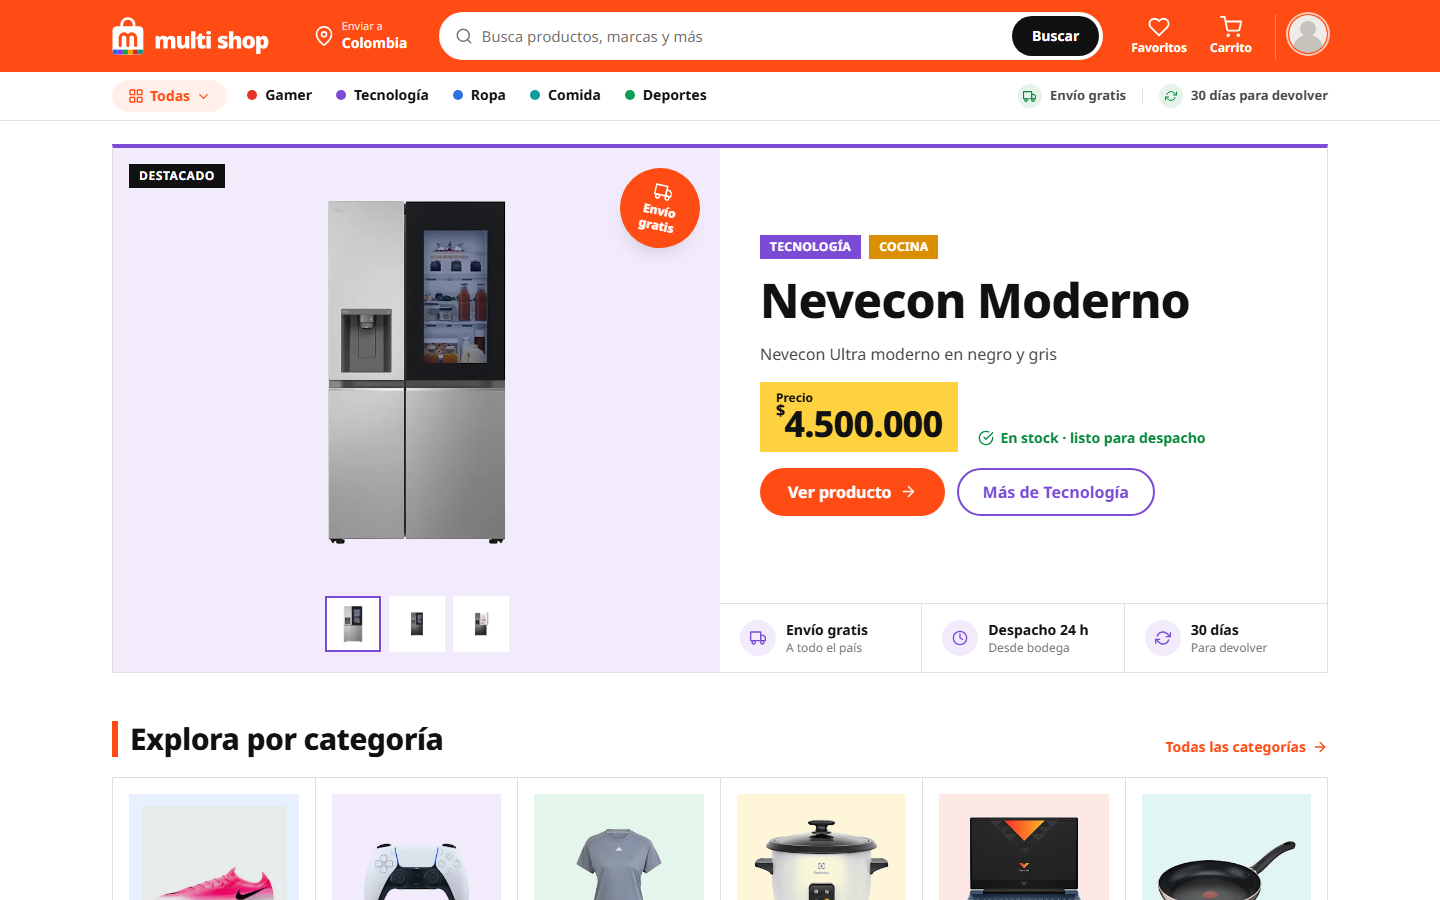
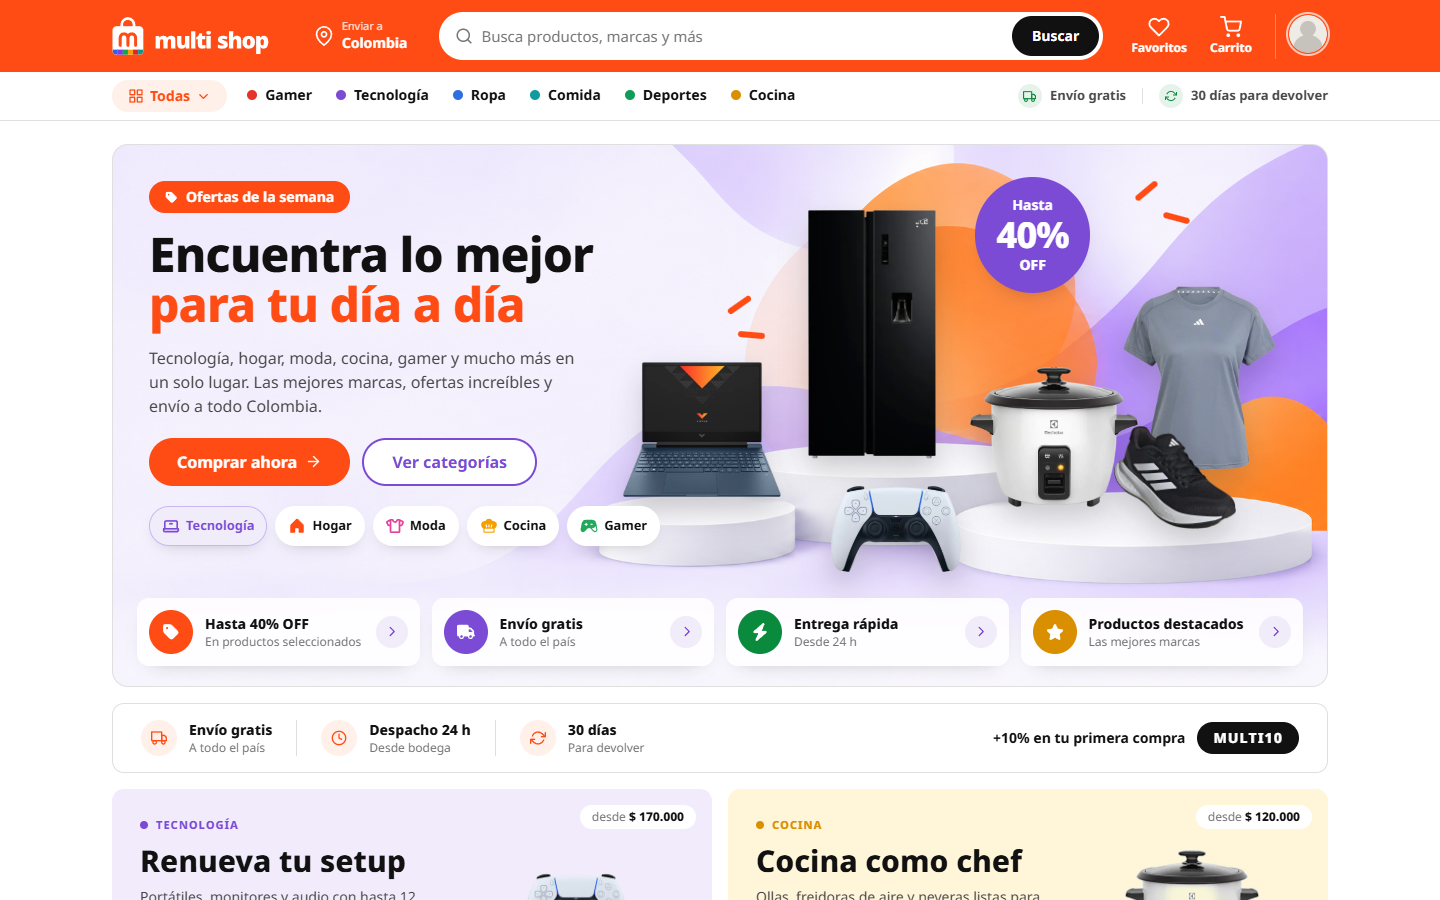
docs: readme actualizado con catalogo, visor y capturas nuevas

diff --git a/README.md b/README.md
@@ -14,19 +14,23 @@ Para quien quiere comprar rápido y con confianza, sin perderse entre menús:
 
 | Quiere… | La tienda le da… |
 |---|---|
-| Encontrar algo rápido | Categorías siempre a la mano en la barra, cada una con su color, y un buscador grande |
+| Encontrar algo rápido | Categorías siempre a la mano en la barra, cada una con su color, un buscador grande y un catálogo con filtros |
 | Saber cuánto cuesta sin buscar | Todos los precios en una **etiqueta amarilla** que se ve de lejos |
+| Ver bien lo que compra | Fotos grandes y un visor a pantalla completa con zoom |
 | Comprar sin miedo | Envío gratis, 30 días para devolver y pago seguro con Stripe, repetidos donde hace falta |
 | No crear una cuenta | Puede comprar como invitado |
 | Volver después | Una lista de deseos y sus datos guardados para la próxima compra |
 
 ## El recorrido de compra
 
-1. **Descubre.** El inicio abre con el producto destacado y sigue con las categorías. Cada categoría tiene su propio carrusel, y entre ellos aparecen secciones que rompen la rutina: un producto estrella, promociones y cómo funciona la compra.
-2. **Mira de cerca.** El detalle del producto muestra la galería de fotos, el precio, el stock, el envío y la garantía, todo en una sola vista.
-3. **Guarda.** El carrito se abre de lado sin sacarte de la página, y sugiere productos para completar el pedido.
-4. **Paga en cuatro pasos.** Carrito → tus datos → entrega → pago. El resumen del pedido acompaña cada paso.
-5. **Listo.** Una página de confirmación con el número de pedido y lo que sigue. Si el pago se cancela, el carrito queda guardado para intentar de nuevo.
+1. **Descubre.** El inicio abre con un banner de ofertas: los productos aparecen sobre plataformas, cada uno lleva a su página y debajo hay accesos rápidos a promociones, envío y destacados. Luego vienen las categorías, los precios bajos y un carrusel por cada categoría, con secciones intermedias que rompen la rutina: un producto estrella, promociones y cómo funciona la compra.
+2. **Busca.** El buscador y los enlaces de categoría llevan al **catálogo**: filtros por categoría y precio, cuatro formas de ordenar y 12 productos por página. Los filtros quedan en la dirección, así que una búsqueda se puede compartir o guardar. En el celular los filtros salen en un cajón lateral.
+3. **Mira de cerca.** El detalle del producto muestra la galería de fotos, el precio, el stock, el envío y la garantía en una sola vista. Al tocar la foto se abre el **visor**: foto grande, flechas, miniaturas, doble clic para ampliar y teclado (← → y Esc).
+4. **Guarda.** Al agregar o quitar algo del carrito o de favoritos aparece un aviso con la foto del producto y un botón **Deshacer**. El carrito se abre de lado sin sacarte de la página, sugiere productos para completar el pedido y actualiza los precios si cambiaron.
+5. **Paga en cuatro pasos.** Carrito → tus datos → entrega → pago. El resumen del pedido acompaña cada paso.
+6. **Listo.** Una página de confirmación con el número de pedido y lo que sigue. Si el pago se cancela, el carrito queda guardado para intentar de nuevo.
+
+![Catálogo con filtros](docs/capturas/catalogo.png)
 
 ![Carrito lateral con sugerencias](docs/capturas/carrito-lateral.png)
 
@@ -37,6 +41,7 @@ Para quien quiere comprar rápido y con confianza, sin perderse entre menús:
 | Elemento | Cómo se usa |
 |---|---|
 | **Naranja Multi Shop** `#ff4b14` | El color de la marca: la barra superior, los botones principales ("Agregar al carrito", "Continuar", "Pagar") y los detalles que guían la mirada |
+| **Morado de ofertas** `#7b4bd6` | El acento del banner del inicio: el sello de descuento y el botón "Ver categorías" |
 | **Amarillo de precios** `#ffd23f` | Solo para las etiquetas de precio, como en los catálogos impresos. Si algo es amarillo, es un precio |
 | **Negro y blanco** | La base: fondos blancos, textos negros y líneas finas para separar |
 | **Verde** | Solo para buenas noticias: envío gratis, en stock, pedido recibido |
@@ -45,7 +50,7 @@ Para quien quiere comprar rápido y con confianza, sin perderse entre menús:
 
 ### Un color por categoría
 
-Cada categoría tiene su color. Ese color aparece en el punto de la barra, en el fondo de las fotos, en los botones de las tarjetas y en los títulos de su sección. Así se sabe dónde está uno sin tener que leer.
+Cada categoría tiene su color. Ese color aparece en el punto de la barra, en el fondo de las fotos, en los botones de las tarjetas, en los títulos de su sección y en la cabecera del catálogo cuando se filtra por ella. Así se sabe dónde está uno sin tener que leer.
 
 | Categoría | Color |
 |---|---|
@@ -56,50 +61,63 @@ Cada categoría tiene su color. Ese color aparece en el punto de la barra, en el
 | Gamer | Rojo |
 | Comida | Turquesa |
 
+Los seis colores juntos forman la **franja multicolor** que se repite en el logo, en la cabecera del catálogo y en el pie de página.
+
 ### Principios
 
 | Principio | Qué significa en la tienda |
 |---|---|
-| **Como un catálogo** | Celdas con líneas finas, fotos sobre fondos de color suave y la etiqueta amarilla de precio. Ordenado y fácil de recorrer |
-| **El producto primero** | Las fotos son grandes y el nombre va en negrita; la descripción larga queda para el detalle |
+| **Como un catálogo** | Fotos sobre fondos de color suave, líneas finas y la etiqueta amarilla de precio. Ordenado y fácil de recorrer |
+| **El producto primero** | Las fotos son grandes y se pueden ver a pantalla completa; el nombre va en negrita y la descripción larga queda para el detalle |
 | **Confianza donde se decide** | El envío gratis, las devoluciones y el pago seguro aparecen justo al lado de los botones de compra, no escondidos en el pie de página |
-| **Sin pasos de más** | El carrito se abre sin cambiar de página, los formularios piden solo lo necesario y los pasos de compra se pueden recorrer hacia atrás |
-| **Todo con sentido** | Nada es decorativo por gusto: cada color dice algo (marca, precio, categoría o buena noticia) |
+| **Sin pasos de más** | El carrito se abre sin cambiar de página, se agrega con un solo botón desde cualquier tarjeta, los formularios piden solo lo necesario y los pasos de compra se pueden recorrer hacia atrás |
+| **Todo se puede deshacer** | Quitar un producto, limpiar el carrito o vaciar la lista de deseos deja un aviso con "Deshacer" |
+| **Todo con sentido** | Nada es decorativo por gusto: cada color dice algo (marca, oferta, precio, categoría o buena noticia) |
 
 ### Piezas que se repiten
 
 | Pieza | Dónde aparece |
 |---|---|
 | **Etiqueta amarilla de precio** | Tarjetas, detalle, carrito, portada y destacados |
-| **Tarjeta de producto** | Foto sobre el color de su categoría, nombre, etiqueta de precio y botón de carrito del mismo color |
+| **Tarjeta de producto** | Foto redondeada sobre el color de su categoría, corazón de favoritos arriba y un botón **+** sobre la foto para agregar al carrito. Debajo, la categoría, el nombre, el precio y "Envío gratis" |
+| **Tarjeta pequeña** | En los carruseles: el precio va sobre la foto, con una barra del color de la categoría y un botón redondo de carrito |
+| **Avisos con foto** | Al agregar o quitar: la foto del producto, qué pasó y un enlace para ver el carrito o los favoritos, o el botón "Deshacer" |
 | **Secciones intermedias** | Entre las categorías del inicio: un producto destacado a todo color, un par de promociones y los pasos para comprar |
+| **Tarjetas de beneficios** | Envío gratis, 30 días para devolver y pago protegido, al final del inicio y del catálogo |
 | **Pantalla partida** | En los pasos de compra: a la izquierda lo que se completa, a la derecha el resumen sobre naranja suave |
 | **Campos redondeados** | Todos los formularios usan el mismo campo, con borde naranja al escribir y el error en rojo con su ícono |
 
 ### Las pantallas
 
-| Detalle de producto | Pasos de compra |
+| Detalle de producto | Visor de fotos |
 |---|---|
-| ![Detalle de producto](docs/capturas/detalle.png) | ![Carrito en pantalla partida](docs/capturas/carrito.png) |
+| ![Detalle de producto](docs/capturas/detalle.png) | ![Visor de fotos a pantalla completa](docs/capturas/visor.png) |
 
-| Ingreso y registro |
-|---|
-| ![Página de ingreso](docs/capturas/ingreso.png) |
+| Pasos de compra | Ingreso y registro |
+|---|---|
+| ![Carrito en pantalla partida](docs/capturas/carrito.png) | ![Página de ingreso](docs/capturas/ingreso.png) |
 
 ### Cómo habla la tienda
 
 - De **tú**, cercana y directa: "Tu carrito", "Completa tu pedido", "Qué bueno verte otra vez".
-- Frases cortas que dicen lo que pasa: "No te hicimos ningún cobro", "Envío gratis incluido".
-- En los botones, lo que va a pasar: "Agregar al carrito", "Continuar", "Reintentar el pago".
+- Frases cortas que dicen lo que pasa: "No te hicimos ningún cobro", "Envío gratis incluido", "Quitado del carrito".
+- En los botones, lo que va a pasar: "Agregar al carrito", "Continuar", "Reintentar el pago", "Deshacer".
 
 ---
 
 ## Para correr el proyecto
 
-Necesitas Node.js 20 o superior y la API de Multi Shop funcionando.
+Necesitas Node.js 20.6 o superior y la API de Multi Shop funcionando.
 
 1. Instala las dependencias con `npm install`.
 2. Crea un archivo `.env` con `VITE_API_DESARROLLO` y `VITE_API_PRODUCCION` (la dirección de la API) y `SESSION_SECRET` (una clave para la sesión).
 3. Arranca con `npm run dev` y abre `http://localhost:5173`.
 
-Está hecho con React, React Router, Vite y Tailwind CSS.
+| Comando | Qué hace |
+|---|---|
+| `npm run dev` | Arranca la tienda en modo desarrollo |
+| `npm run build` | Revisa los tipos y construye la versión para el navegador y el servidor |
+| `npm start` | Sirve la versión construida, leyendo el `.env` |
+| `npm run lint` | Revisa el código con ESLint |
+
+Está hecho con React, React Router (con renderizado en el servidor), Vite y Tailwind CSS. El carrito y los favoritos usan zustand, los avisos notistack y las galerías y carruseles Swiper.
